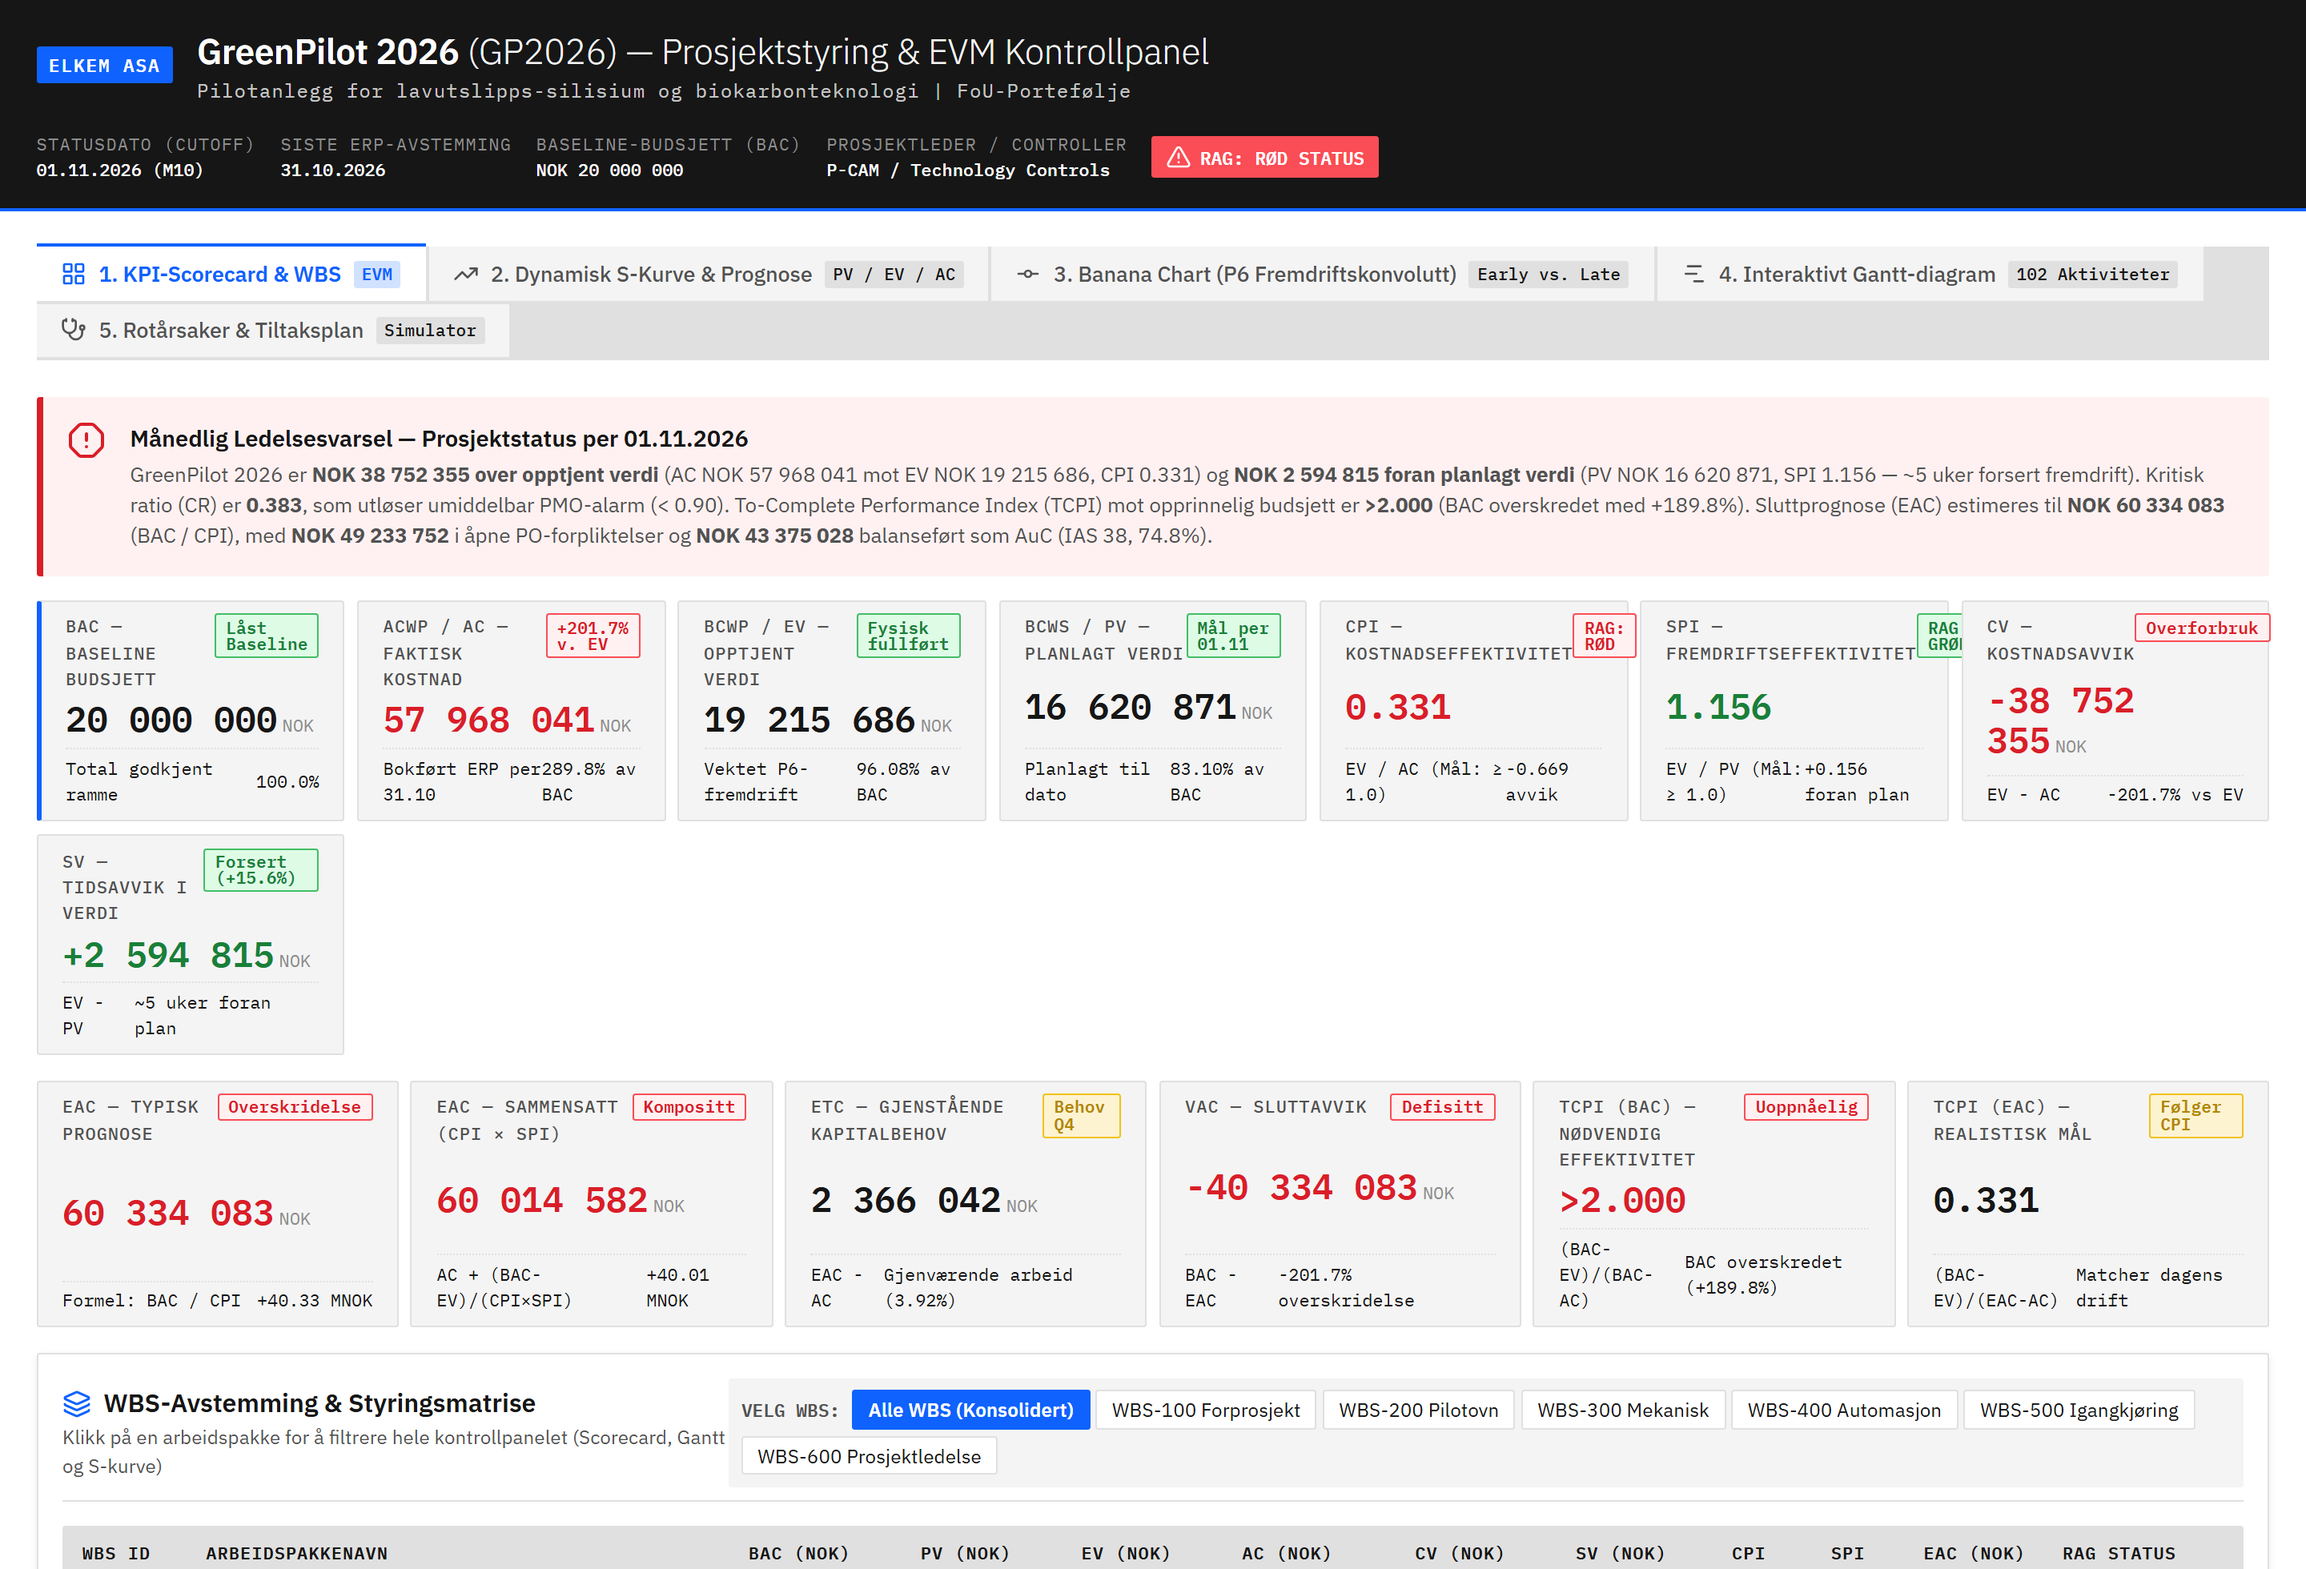
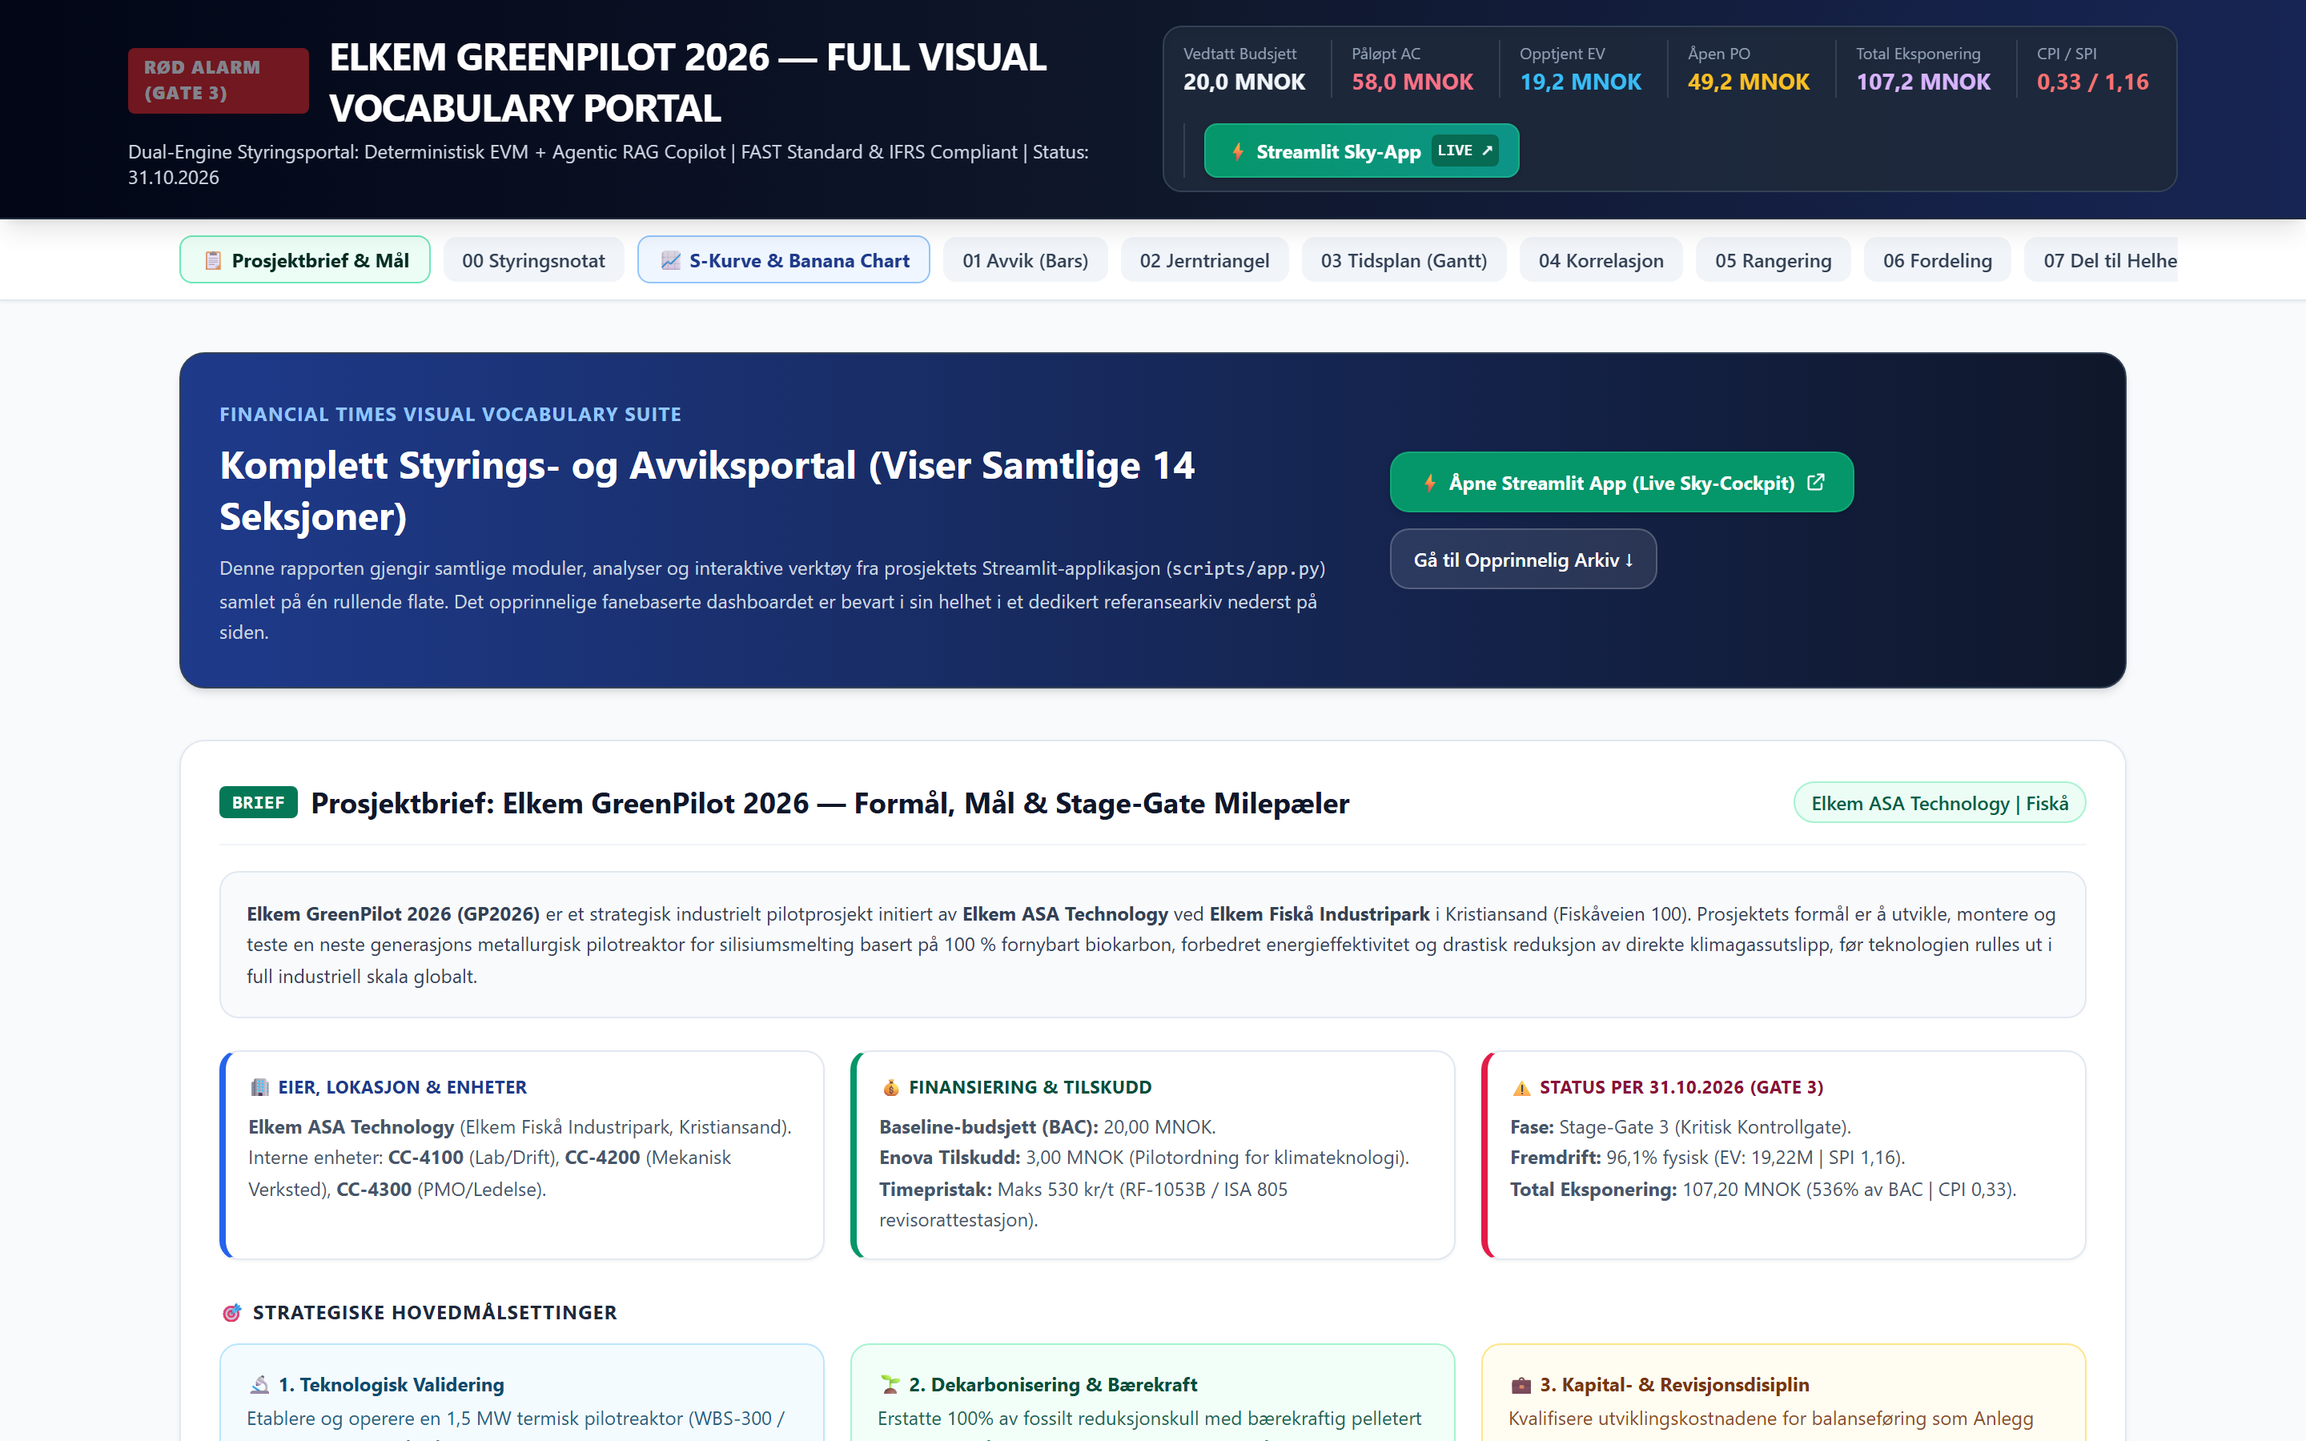
upd

diff --git a/index.html b/index.html
@@ -2065,16 +2065,16 @@
         <article class="project-card featured-flagship ui-hero-banner" data-category="controlling bi ai">
           <div class="project-media">
             <a href="https://frank-ellingsen.github.io/greenpilot/" target="_blank" rel="noopener"
-              title="Klikk for å åpne Elkem GreenPilot 2026 — Prosjektstyring &amp; EVM Kontrollpanel">
+              title="Klikk for å åpne Elkem GreenPilot 2026 — Executive EVM &amp; Full Visual Vocabulary Portal">
               <div class="media-live-badge">
-                <span class="live-dot"></span> LIVE WEB APP &bull; ANSI/EIA-748 EVM &bull; POWER BI PBIP/TMDL &bull; DUCKDB &bull; IAS 38 / IAS 36
+                <span class="live-dot"></span> LIVE WEB APP &bull; ANSI/EIA-748 EVM &bull; 14-SEKSJONS VISUAL VOCABULARY &bull; DUCKDB &bull; IAS 38 / IAS 36
               </div>
-              <img src="images/img_elk.png"
-                alt="Elkem GreenPilot 2026 — Prosjektstyring &amp; EVM Kontrollpanel | Multi-Platform EVM, Power BI TMDL, FAST Excel &amp; Dual-Engine AI Copilot"
+              <img src="images/greenpilot.png"
+                alt="Elkem GreenPilot 2026 — Executive EVM &amp; Full Visual Vocabulary Portal | Financial Times Visual Vocabulary Suite, Power BI TMDL, FAST Excel &amp; Dual-Engine AI Copilot"
                 loading="lazy" />
               <div class="media-caption-overlay">
-                <span>🏭 Elkem GreenPilot 2026 (GP2026) &bull; Prosjektstyring &amp; EVM Kontrollpanel</span>
-                <span style="color: #38bdf8; font-weight: 600">Åpne EVM Kontrollpanel ↗</span>
+                <span>🏭 Elkem GreenPilot 2026 (GP2026) &bull; Executive EVM &amp; Full Visual Vocabulary Portal</span>
+                <span style="color: #38bdf8; font-weight: 600">Åpne EVM &amp; Visual Vocabulary Portal ↗</span>
               </div>
             </a>
           </div>
@@ -2102,7 +2102,7 @@
               <h3 class="project-title">
                 <a href="https://frank-ellingsen.github.io/greenpilot/" target="_blank" rel="noopener"
                   style="color: inherit; text-decoration: none">
-                  Elkem GreenPilot 2026 — Prosjektstyring &amp; EVM Kontrollpanel
+                  Elkem GreenPilot 2026 — Executive EVM &amp; Full Visual Vocabulary Portal
                 </a>
               </h3>
 
@@ -2221,8 +2221,8 @@
                       <div class="scenario-bars" style="gap: 10px">
                         <div class="scenario-row">
                           <div class="scenario-row-meta">
-                            <span class="label">1. Interaktivt Web-Kontrollpanel (index.html &bull; 5 Faner)</span>
-                            <span class="val" style="color: #0284c7">Scorecard, S-Kurve, P6 Banana, Gantt &amp; Simulator</span>
+                            <span class="label">1. Executive EVM &amp; Visual Vocabulary Portal (14 Seksjoner)</span>
+                            <span class="val" style="color: #0284c7">S-Kurve, P6 Banana, Sankey, Isberg, Simulator &amp; AI Copilot</span>
                           </div>
                           <div class="scenario-bar-track">
                             <div class="scenario-bar-fill" style="width: 100%; background: #0284c7"></div>
@@ -2279,7 +2279,7 @@
               </a>
               <button type="button" class="btn-action-secondary preview-modal-trigger"
                 data-preview-url="https://frank-ellingsen.github.io/greenpilot/"
-                data-preview-title="Elkem GreenPilot 2026 — Prosjektstyring &amp; EVM Kontrollpanel" data-preview-icon="🏭"
+                data-preview-title="Elkem GreenPilot 2026 — Executive EVM &amp; Full Visual Vocabulary Portal" data-preview-icon="🏭"
                 title="Interaktiv forhåndsvisning i modalvindu">
                 <svg width="14" height="14" viewBox="0 0 24 24" fill="none" stroke="currentColor" stroke-width="2"
                   stroke-linecap="round" stroke-linejoin="round">
